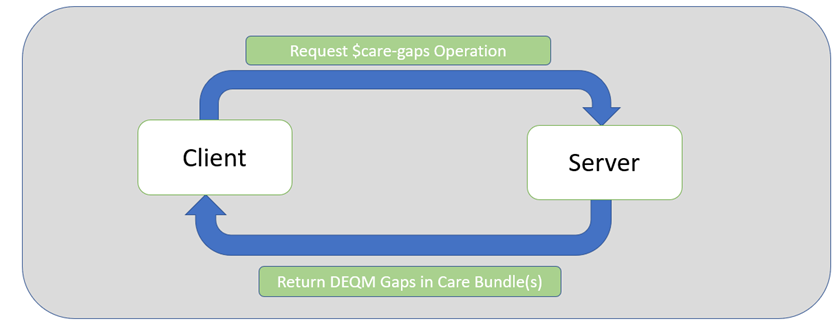
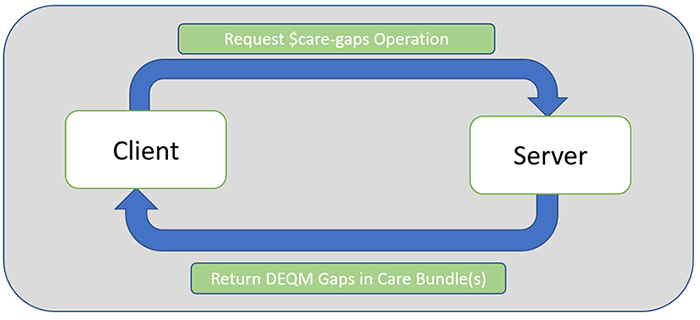
updated gic-resources.png, adjusted dimension of quality-improvement-ecosystem_new.png and gaps-reporting-scenario.png. Updated texts in 2.5.1.1 and 2.5.2 in gaps-in-care-reporting.md. Updated change-notes.md

Changed region(s): [[0.0, 0.0, 0.99, 1.0], [0.96, 0.1562, 1.0, 0.9375]]

diff --git a/input/pagecontent/gaps-in-care-reporting.md b/input/pagecontent/gaps-in-care-reporting.md
@@ -14,13 +14,13 @@ Gaps in Care may exist for several reasons. The following are some common scenar
  - Recommended care was provided prior to the coverage by the current payer
  - Recommended Care was provided between generation of a Gap in Care Report and receipt of the report.
 
-A Gap in Care Report is designed to communicate actual or perceived gaps in care between systems, such as the payer’s system and provider’s EMR. The report provides opportunities for providers to provide missing care and/or to communicate care provision data to payers. The report may also provide information for upcoming care opportunities, prospective gaps.
+A Gaps in Care Report is designed to communicate actual or perceived gaps in care between systems, such as the payer’s system and provider’s EMR. The report provides opportunities for providers to provide missing care and/or to communicate care provision data to payers. The report may also provide information for upcoming care opportunities, prospective gaps.
 
 In Figure 2-12, the red circle represents the Gaps in Care Reporting flow portion of the Quality Improvement Ecosystem. Please see [The Quality Improvement Ecosystem Diagram].
 
 {% include img-portrait.html img="gic-ecosystem_new.png" caption = "Figure 2-12 Quality Measure Ecosystem - Gaps in Care" %}
 
-The Gap in Care flow is between a provider and a measurement organization’s system performing analytics.
+The Gaps in Care flow is between a provider and a measurement organization’s system performing analytics.
 
 Note that this implementation guide does not address actual workflow around managing the process of requesting a Gaps in Care Report and to whom the report should be sent.
 
@@ -31,8 +31,7 @@ Figure 2-13 reflects the details within the red circle representing the Gaps in 
 #### Relationship of Individual Reporting and Gaps in Care Reporting
 {:.no_toc}
 
-The Gaps in Care Reporting is built on the [DEQM Individual MeasureReport Profile]. This allows the Gaps in Care Reporting to use the same machinery as the Individual Reporting to calculate measures and represent the results of individual calculation.
-
+The Gaps in Care Reporting uses the [DEQM Individual MeasureReport Profile]. This allows the Gaps in Care Reporting to use the same machinery as the Individual Reporting to calculate measures and represent the results of individual calculation.
 
 ### Default Profiles
 
@@ -46,7 +45,8 @@ The following resources are used in the Gaps in Care Reporting scenario:
 |Group|DEQM Gaps In Care Group Profile|[DEQM Gaps In Care Group Profile]|
 |MeasureReport|DEQM Individual MeasureReport Profile|[DEQM Individual MeasureReport Profile]|
 
-Figure 2-14 provides a graphical view of how these resources are related. A Composition Bundle is created for each Patient(linked via subject element).  The Composition resource references one or more DEQM Individual MeasureReport resources.  One MeasureReport for each Measure included in the report. If the generator of the MeasureReport resource has data used in the Measure, they are linked under evaluatedResource element. The [DEQM Population Reference Extension] element on the resource documents how that resource contributed to the measure, i.e. numerator, denominator, etc.
+Figure 2-14 provides a graphical view of how these resources are related. A Composition is created for each Patient (linked via `subject` element) and is contained in a Bundle. The Composition resource references one or more DEQM Individual MeasureReport resources. One MeasureReport for each Measure included in the report. If the generator of the MeasureReport resource has data used in the Measure, they are linked under `evaluatedResource` element. The [DEQM Population Reference Extension] on the `evaluatedResource` documents how that resource contributed to the measure, i.e. numerator, denominator, etc.
+
 {% include img-portrait.html img="gic-resources.png" caption = "Figure 2-14 Gaps In Care Resources" %}
 
 ### Gaps in Care Reporting
@@ -61,14 +61,14 @@ Figure 2-14 provides a graphical view of how these resources are related. A Comp
 |**Prospective Use Case**|$care-gaps?periodStart=2021-01-01&periodEnd=2021-06-30&subject=Patient/123&measure=CMS130v8|2021-01-01|2021-06-30|2021-04-01|Example: patient had colonoscopy on 2011-05-03|Returns gaps through 2021-06-30. The gaps in care report indicates the patient has an [open gap] for the colorectal cancer screening measure. By 2021-06-30, the colonoscopy would be over 10 years.|
 |**Retrospective Use Case**|$care-gaps?periodStart=2020-01-01&periodEnd=2020-12-31&subject=Patient/123&measure=CMS130v8|2020-01-01|2020-12-31|2021-04-01|Example: patient had colonoscopy on 2011-05-03|Returns gaps through 2020-12-31. The gaps in care report indicates the patient has a [closed gap] for the colorectal cancer screening measure. Since on 2020-12-31, the procedure would have occurred within the specified 10-year timeframe.|
 
-The timeline below represents the data described above.  A colonoscopy procedure per CMS130v8 is required every 10 years.  If as in the example above, the patient had a colonoscopy done on May 3rd, 2011, another one would be due and the gap opened on May 3rd, 2021.
+The timeline below represents the data described above.  A colonoscopy procedure per CMS130v8 is required every 10 years. If as in the example above, the patient had a colonoscopy done on May 3rd, 2011, another one would be due and the gap opened on May 3rd, 2021.
 
 {% include img-portrait.html img="gic-prospective-retrospective.png" caption = "Figure 2-15 Prospective and Retrospective Use Case" %}
 
 #### Care Gaps Operation
 {:.no_toc}
 
-The [care-gaps](OperationDefinition-care-gaps.html) operation is used to run a gaps in care report. In this guide, we have extended the [base care-gaps operation] in the R4 Release of the FHIR (FHIR R4) Specification to allow for the specification of additional parameters that will be useful to the communities needing this report. This operation is run on the Measure resource and allows a Server to create a gaps in care report based on the quality measures available in the Server’s system.
+The [care-gaps](OperationDefinition-care-gaps.html) operation is used to run a Gaps in Care Report. In this guide, we have extended the [base care-gaps operation] in the R4 Release of the FHIR (FHIR R4) Specification to allow for the specification of additional parameters that will be useful to the communities needing this report. This operation is run on the Measure resource and allows a Server to create a gaps in care report based on the quality measures available in the Server’s system.
 
 A report calculated on any given date provides all of the data from the server's system as of that date. A request for a previous time period will still show all data available as of the date the report is calculated. Therefore, a requester can ask for multiple reports, save them and compare them, but not request data "as of" previous dates.
 

diff --git a/input/pagecontent/change-notes.md b/input/pagecontent/change-notes.md
@@ -73,13 +73,72 @@ The first official published version of the DEQM IG for FHIR R4.
     - Updated Downloads page with new schematrons for Gaps in Care
 
 ### Changes and Updates for version 3.0.0
-
 1. Applied all resolutions from STU3 Ballot
     - Various Technical Corrections and Corrections to Typographical Errors
+    - Updated the Introduction section in Gaps In Care Reporting ([FHIR-28956](https://jira.hl7.org/browse/FHIR-28956)),([FHIR-28958](https://jira.hl7.org/browse/FHIR-28958)),([FHIR-28959](https://jira.hl7.org/browse/FHIR-28959)) ,([FHIR-28960](https://jira.hl7.org/browse/FHIR-28960)),([FHIR-28961](https://jira.hl7.org/browse/FHIR-28961)),([FHIR-28962](https://jira.hl7.org/browse/FHIR-28962)),([FHIR-28963](https://jira.hl7.org/browse/FHIR-28963)),([FHIR-28974](https://jira.hl7.org/browse/FHIR-28974)),([FHIR-28981](https://jira.hl7.org/browse/FHIR-28981)),([FHIR-28982](https://jira.hl7.org/browse/FHIR-28982)),([FHIR-28983](https://jira.hl7.org/browse/FHIR-28983)),([FHIR-28984](https://jira.hl7.org/browse/FHIR-28984)),([FHIR-28985](https://jira.hl7.org/browse/FHIR-28985)),([FHIR-28986](https://jira.hl7.org/browse/FHIR-28986)),([FHIR-28987](https://jira.hl7.org/browse/FHIR-28987)),([FHIR-28988](https://jira.hl7.org/browse/FHIR-28988)),([FHIR-28989](https://jira.hl7.org/browse/FHIR-28989)),([FHIR-28990](https://jira.hl7.org/browse/FHIR-28990)),([FHIR-28991](https://jira.hl7.org/browse/FHIR-28991)),([FHIR-29009](https://jira.hl7.org/browse/FHIR-29009)),([FHIR-29010](https://jira.hl7.org/browse/FHIR-29010)),([FHIR-29011](https://jira.hl7.org/browse/FHIR-29011)),([FHIR-29020](https://jira.hl7.org/browse/FHIR-29020)),([FHIR-29021](https://jira.hl7.org/browse/FHIR-29021)),([FHIR-29022](https://jira.hl7.org/browse/FHIR-29022)),([FHIR-28964](https://jira.hl7.org/browse/FHIR-28964)),([FHIR-28992](https://jira.hl7.org/browse/FHIR-28992)
+    - Created links for Gaps in Care terminology to Glossary ([FHIR-28955](https://jira.hl7.org/browse/FHIR-28955))
     - Updated examples
+
+    Profile Changes:
+
     - Change the DEQM Gaps In Care Composition Profile to reference 1..* DEQM Gaps In Care DetectedIssue instead of 0..* ([FHIR-29017](https://jira.hl7.org/browse/FHIR-29017))
-    - Add a modifier extension gapStatus to the DEQM Gaps In Care DetectedIssue profile ([FHIR-29017](https://jira.hl7.org/browse/FHIR-29017)).  
-    - Updated the Introduction section in Gaps In Care Reporting
-1. Applied resolutions from DEQM trackers
+    - Add a modifier extension gapStatus to the DEQM Gaps In Care DetectedIssue profile ([FHIR-29017](https://jira.hl7.org/browse/FHIR-29017)).
+    - Changed patient to 1..1 in DEQM Gaps in Care DetectedIssue profile ([FHIR-28439](https://jira.hl7.org/browse/FHIR-28439))
+    - DetectedIssue.evidence.detail changed to allow MeasureReport or Guidance resource to be Referenced
+        - Changed care-gaps operation to allow 3 parameters to specify measure -  id, url, identifier ([FHIR-28483](https://jira.hl7.org/browse/FHIR-28483))
+    - DEQM Gaps in Care Individual MeasureReport profile was removed.  The extension-populationReference was added to the DEQM Individual MeasureReport profile.  This extension-populationReference SHOULD reference population criteria id specified in a Measure resource. ([FHIR-28497](https://jira.hl7.org/browse/FHIR-28497))
+
+
+    Description Pending:
+    - ([FHIR-28965](https://jira.hl7.org/browse/FHIR-28965))
+    - ([FHIR-28978](https://jira.hl7.org/browse/FHIR-28978))
+    - ([FHIR-29005](https://jira.hl7.org/browse/FHIR-29005))
+    - ([FHIR-29006](https://jira.hl7.org/browse/FHIR-29006))
+    - ([FHIR-29007](https://jira.hl7.org/browse/FHIR-29007))
+    - ([FHIR-28977](https://jira.hl7.org/browse/FHIR-28977))
+    - ([FHIR-28484](https://jira.hl7.org/browse/FHIR-28484))
+    - ([FHIR-28487](https://jira.hl7.org/browse/FHIR-28487))
+    - ([FHIR-28496](https://jira.hl7.org/browse/FHIR-28496))
+    - ([FHIR-28593](https://jira.hl7.org/browse/FHIR-28593))
+
+
+    - ([FHIR-28966](https://jira.hl7.org/browse/FHIR-28966))
+    - ([FHIR-28967](https://jira.hl7.org/browse/FHIR-28967))
+    - ([FHIR-28968](https://jira.hl7.org/browse/FHIR-28968))
+    - ([FHIR-28969](https://jira.hl7.org/browse/FHIR-28960))
+    - ([FHIR-28970](https://jira.hl7.org/browse/FHIR-28970))
+    - ([FHIR-28971](https://jira.hl7.org/browse/FHIR-28971))
+    - ([FHIR-28972](https://jira.hl7.org/browse/FHIR-28972))
+    - ([FHIR-28973](https://jira.hl7.org/browse/FHIR-28973))
+    - ([FHIR-28980](https://jira.hl7.org/browse/FHIR-28980))
+    - ([FHIR-28993](https://jira.hl7.org/browse/FHIR-28993))
+    - ([FHIR-28994](https://jira.hl7.org/browse/FHIR-28994))
+    - ([FHIR-28995](https://jira.hl7.org/browse/FHIR-28995))
+    - ([FHIR-28996](https://jira.hl7.org/browse/FHIR-28996))
+    - ([FHIR-28997](https://jira.hl7.org/browse/FHIR-28997))
+    - ([FHIR-29000](https://jira.hl7.org/browse/FHIR-29000))
+    - ([FHIR-29008](https://jira.hl7.org/browse/FHIR-29008))
+    - ([FHIR-29012](https://jira.hl7.org/browse/FHIR-29012))
+    - ([FHIR-29013](https://jira.hl7.org/browse/FHIR-29013))
+    - ([FHIR-29015](https://jira.hl7.org/browse/FHIR-29015))
+    - ([FHIR-29016](https://jira.hl7.org/browse/FHIR-29016))
+    - ([FHIR-29018](https://jira.hl7.org/browse/FHIR-29018))
+
+    Non-Gaps in Care Changes
+
+    - ([FHIR-27862](https://jira.hl7.org/browse/FHIR-27862))
+    - ([FHIR-29828](https://jira.hl7.org/browse/FHIR-29828))
+    - ([FHIR-30407](https://jira.hl7.org/browse/FHIR-30407))
+    - ([FHIR-29637](https://jira.hl7.org/browse/FHIR-29637))
+    - ([FHIR-28374](https://jira.hl7.org/browse/FHIR-28374))
+    - ([FHIR-29411](https://jira.hl7.org/browse/FHIR-29411))
+    - ([FHIR-29561](https://jira.hl7.org/browse/FHIR-29561))
+    - ([FHIR-30075](https://jira.hl7.org/browse/FHIR-30075))
+    - ([FHIR-31067](https://jira.hl7.org/browse/FHIR-31067))
+    - ([FHIR-28373](https://jira.hl7.org/browse/FHIR-28373))
+    - ([FHIR-29560](https://jira.hl7.org/browse/FHIR-29560))
+    - ([FHIR-31065](https://jira.hl7.org/browse/FHIR-31065))
+    - ([FHIR-28497](https://jira.hl7.org/browse/FHIR-28497))
+
 
 {% include link-list.md %}
